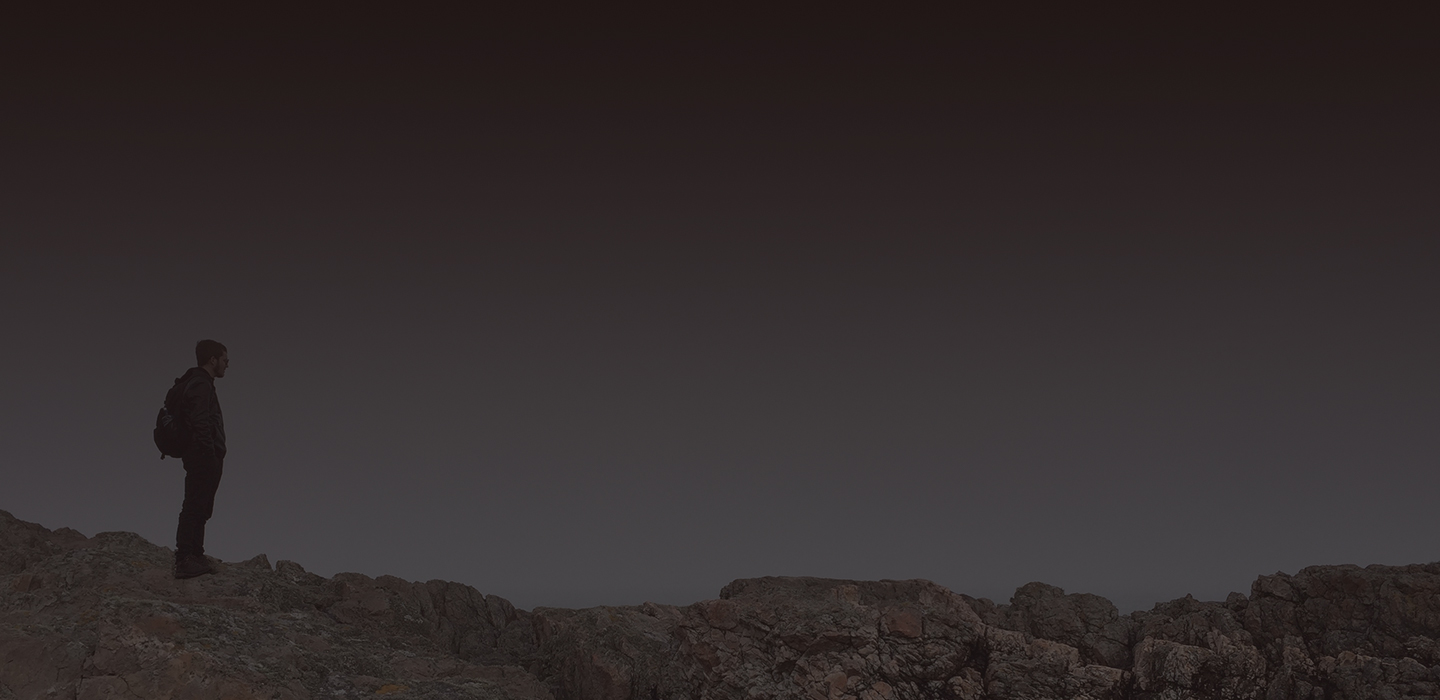
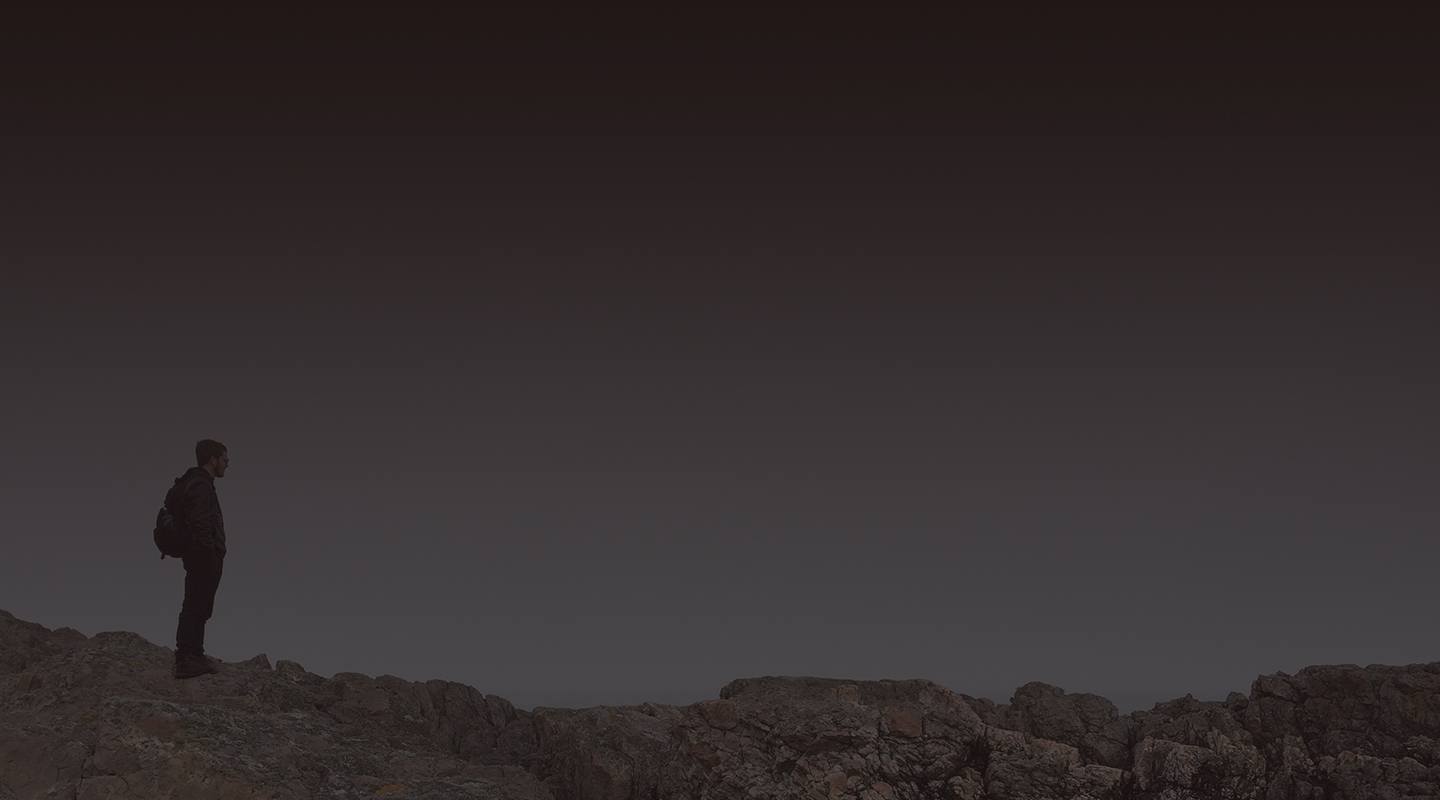
First draft ready to production

Changed region(s): [[0.0, 0.48, 1.0, 0.99], [0.9062, 0.93, 1.0, 0.96], [0.5, 0.96, 0.5312, 0.99]]

diff --git a/assets/css/main.css b/assets/css/main.css
@@ -1,1 +1,1 @@
-/*! normalize.css v3.0.3 | MIT License | github.com/necolas/normalize.css */html{font-family:sans-serif;-ms-text-size-adjust:100%;-webkit-text-size-adjust:100%}body{margin:0}article,aside,details,figcaption,figure,footer,header,hgroup,main,menu,nav,section,summary{display:block}audio,canvas,progress,video{display:inline-block;vertical-align:baseline}audio:not([controls]){display:none;height:0}[hidden],template{display:none}a{background-color:transparent}a:active,a:hover{outline:0}abbr[title]{border-bottom:1px dotted}b,strong{font-weight:bold}dfn{font-style:italic}h1{font-size:2em;margin:0.67em 0}mark{background:#ff0;color:#000}small{font-size:80%}sub,sup{font-size:75%;line-height:0;position:relative;vertical-align:baseline}sup{top:-0.5em}sub{bottom:-0.25em}img{border:0}svg:not(:root){overflow:hidden}figure{margin:1em 40px}hr{box-sizing:content-box;height:0}pre{overflow:auto}code,kbd,pre,samp{font-family:monospace, monospace;font-size:1em}button,input,optgroup,select,textarea{color:inherit;font:inherit;margin:0}button{overflow:visible}button,select{text-transform:none}button,html input[type="button"],input[type="reset"],input[type="submit"]{-webkit-appearance:button;cursor:pointer}button[disabled],html input[disabled]{cursor:default}button::-moz-focus-inner,input::-moz-focus-inner{border:0;padding:0}input{line-height:normal}input[type="checkbox"],input[type="radio"]{box-sizing:border-box;padding:0}input[type="number"]::-webkit-inner-spin-button,input[type="number"]::-webkit-outer-spin-button{height:auto}input[type="search"]{-webkit-appearance:textfield;box-sizing:content-box}input[type="search"]::-webkit-search-cancel-button,input[type="search"]::-webkit-search-decoration{-webkit-appearance:none}fieldset{border:1px solid #c0c0c0;margin:0 2px;padding:0.35em 0.625em 0.75em}legend{border:0;padding:0}textarea{overflow:auto}optgroup{font-weight:bold}table{border-collapse:collapse;border-spacing:0}td,th{padding:0}.header{text-align:center;-webkit-user-select:none;-moz-user-select:none;-ms-user-select:none;user-select:none}.nav{position:relative;margin:7.8125% 0;font:700 1.1em/1em "proxima-nova",sans-serif;text-transform:uppercase}@media (max-width: 800px){.nav{font-size:1em}}.nav a{position:relative;overflow:hidden;display:inline-block;vertical-align:middle;white-space:nowrap;padding:0.25em 0.5em;color:#fcc04d}.nav a::before{position:absolute;top:0;left:0;z-index:-1;width:100%;height:100%;background:#713f24;content:"";-webkit-transform:translateX(-110%);transform:translateX(-110%);transition:all 0.3s}.nav a:hover::before,.nav a:focus::before{-webkit-transform:translateX(0);transform:translateX(0)}.nav .logo{margin:0 4.6875%;color:#fff}.nav .logo::before{display:none}@media (max-width: 800px){.nav .logo{max-width:200px}}@media (max-width: 600px){.nav .logo{display:block;margin:0 auto}}.opening-line{padding:0 2.5em;margin:15% 10% 10%;font-size:1.2em;line-height:1.45;color:#8c7262}@media (max-width: 1000px){.opening-line{margin-left:0;margin-right:0;font-size:1.1em}}@media (max-width: 800px){.opening-line{font-size:1em}}@media (max-width: 400px){.opening-line{padding:0 1.5em;margin-top:20%}}.footer{position:relative;width:100%;min-height:700px;padding-bottom:4em;text-align:center;color:#f0e7d9;background:url(../img/bg_footer.jpg) no-repeat bottom left/100%}@media (max-width: 600px){.footer{background-position:-40px 100%;background-size:200%}}.closing-line{padding:0 2.5em;margin:10%;font-size:1.2em;line-height:1.45;color:#8c7262}@media (max-width: 1000px){.closing-line{margin:10% 0;font-size:1.1em}}@media (max-width: 800px){.closing-line{font-size:1em}}@media (max-width: 400px){.closing-line{padding:0 1.5em;margin:15% 0}}.say-hello{position:relative;max-width:800px;padding-top:10%;margin:10% auto}@media (max-width: 400px){.say-hello{padding:15% 1em 0;margin:15% auto}}.say-hello h4{margin:0}.say-hello a{opacity:.5;transition:opacity 0.3s}.say-hello a:hover{opacity:1}.say-hello::before{position:absolute;top:0;left:25%;width:50%;border-top:2px dashed rgba(255,255,255,0.2);content:""}.say-hello .social-icons a{display:inline-block;max-width:40px;margin:0.5em 0.25em;opacity:1}.say-hello .social-icons a:hover{opacity:.5}.by{display:inline-block;max-width:40px}body{font:1.25em/1.5 "ff-tisa-web-pro",serif;color:#734020;background:#201716;-webkit-font-smoothing:antialiased;-moz-osx-font-smoothing:grayscale}@media (max-width: 800px){body{font-size:1.125em}}::-moz-selection{text-shadow:none;color:#734020;background:#fcc04d}::selection{text-shadow:none;color:#734020;background:#fcc04d}blockquote{font-style:italic}blockquote footer{font-size:.8em;margin-top:.5em;opacity:.5}h1,h2,h3,h4{margin-bottom:0;font-family:"proxima-nova",sans-serif;line-height:1.1}h1{font-size:2.8em}@media (max-width: 800px){h1{font-size:2.4em}}@media (max-width: 600px){h1{font-size:2em}}@media (max-width: 400px){h1{font-size:1.7em}}h2{font-size:2.1em}@media (max-width: 600px){h2{font-size:1.7em}}h3{font-size:1.7em}@media (max-width: 600px){h3{font-size:1.3em}}h4{font-size:1.2em;text-transform:uppercase;color:#fcc04d}.post{position:relative;z-index:2}.post>h1,.post>h2,.post>h3,.post>h4,.post>p,.post>header,.post>footer{margin-left:14%;margin-right:14%}@media (max-width: 1000px){.post>h1,.post>h2,.post>h3,.post>h4,.post>p,.post>header,.post>footer{margin-left:8%;margin-right:8%}}@media (max-width: 800px){.post>h1,.post>h2,.post>h3,.post>h4,.post>p,.post>header,.post>footer{margin-left:0;margin-right:0}}.post__title{position:relative}.post__title a{display:block;padding-bottom:.75em;margin-bottom:.75em}.post__title a::before{position:absolute;left:0;bottom:0;width:35%;border-bottom:3px dashed #fcc04d;content:"";transition:all 0.3s}.post__title a:hover::before{width:70%;border-bottom:3px dashed #fcc04d}.post__meta{clear:both;padding:1.5em 2em;margin-top:3em;margin-bottom:2em;font-size:.7em;font-family:"proxima-nova",sans-serif;text-transform:uppercase;background:rgba(255,255,255,0.25);box-shadow:0 1px 3px rgba(31,22,21,0.1)}@media (max-width: 600px){.post__meta{padding:1.25em 1.5em}}.post__meta a{position:relative;display:inline-block;vertical-align:top;overflow:hidden;transition:all 0.3s}.post__meta a::before{position:absolute;top:0;left:0;z-index:-1;width:100%;height:100%;background:#fcc04d;content:"";-webkit-transform:translateX(-110%);transform:translateX(-110%);transition:all 0.3s}.post__meta a:hover::before,.post__meta a:focus::before{-webkit-transform:translateX(0);transform:translateX(0)}.post__meta .spacer{display:inline-block;vertical-align:top;padding:0 1em}@media (max-width: 600px){.post__meta .spacer{display:none}}.post__meta__tags{display:inline-block;vertical-align:top;padding:0;margin:0;list-style:none;white-space:nowrap}@media (max-width: 600px){.post__meta__tags{display:block;padding:0.5em 1.5em;margin:0.5em -1.5em;background:rgba(252,192,77,0.2)}}.post__meta__tags li{display:inline-block;vertical-align:top;margin-right:.3em}.post__meta__tags li:last-child{margin-right:0}html{box-sizing:border-box}*,*::before,*::after{box-sizing:inherit}audio,canvas,iframe,img,svg,video{vertical-align:middle}img{max-width:100%;height:auto}input[type="text"],input[type="button"],input[type="submit"],textarea{-webkit-appearance:none;border-radius:0}textarea{resize:vertical}figure{margin:0}a{text-decoration:none;color:inherit}.clearfix::before,.clearfix::after{content:"";display:table}.clearfix::after{clear:both}.ir{font:0/0 a;text-shadow:none;color:transparent}.container{position:relative;width:90%;max-width:1280px;margin:0 auto;-webkit-backface-visibility:hidden;backface-visibility:hidden}@media (max-width: 400px){.container{width:96%}}.main{position:relative;min-height:600px;padding:4em 3em;background:url(../img/bg_main-dirty.png) no-repeat top right,#f0e7d9 url(../img/bg_main.jpg) top center;border-radius:3px;box-shadow:inset 0 0 0 1px rgba(255,255,255,0.25),inset 0 0 25px rgba(31,22,21,0.25),4px 4px 20px rgba(31,22,21,0.5),4px 4px 0 #f0e7d9,4px 4px 20px rgba(31,22,21,0.5),8px 8px 0 #f0e7d9,8px 8px 20px rgba(31,22,21,0.5)}@media (max-width: 400px){.main{padding:1em 1.5em;box-shadow:inset 0 0 0 1px rgba(255,255,255,0.25),inset 0 0 25px rgba(31,22,21,0.25),0 4px 20px rgba(31,22,21,0.5),0 8px 0 -4px #f0e7d9,0 8px 20px -4px rgba(31,22,21,0.5),0 14px 0 -6px #f0e7d9,0 14px 20px -6px rgba(31,22,21,0.5)}}.main::before{position:absolute;top:1.75em;right:1.75em;bottom:1.75em;left:1.75em;border:5px solid rgba(113,63,36,0.13);content:""}@media (max-width: 800px){.main::before{top:1em;right:1em;bottom:1em;left:1em}}@media (max-width: 400px){.main::before{display:none}}.main::after{position:absolute;top:0;left:0;width:50%;height:100%;background:rgba(0,0,0,0.035);box-shadow:0 0 30px rgba(0,0,0,0.07);content:""}.bg-layer{position:fixed;top:0;left:0;z-index:-1;width:100%;height:100%;background-repeat:no-repeat;background-position:top center;background-size:100% auto}@media (max-width: 1000px){.bg-layer{background-size:1000px}}@media (max-width: 800px){.bg-layer{background-size:800px}}@media (max-width: 600px){.bg-layer{background-size:900px}}.bg-layer-0{background-image:url(../img/bg_layer_0.jpg)}.bg-layer-1{background-image:url(../img/bg_layer_1.png)}.bg-layer-2{background-image:url(../img/bg_layer_2.png)}.bg-layer-3{background-image:url(../img/bg_layer_3.png)}
+/*! normalize.css v3.0.3 | MIT License | github.com/necolas/normalize.css */html{font-family:sans-serif;-ms-text-size-adjust:100%;-webkit-text-size-adjust:100%}body{margin:0}article,aside,details,figcaption,figure,footer,header,hgroup,main,menu,nav,section,summary{display:block}audio,canvas,progress,video{display:inline-block;vertical-align:baseline}audio:not([controls]){display:none;height:0}[hidden],template{display:none}a{background-color:transparent}a:active,a:hover{outline:0}abbr[title]{border-bottom:1px dotted}b,strong{font-weight:bold}dfn{font-style:italic}h1{font-size:2em;margin:0.67em 0}mark{background:#ff0;color:#000}small{font-size:80%}sub,sup{font-size:75%;line-height:0;position:relative;vertical-align:baseline}sup{top:-0.5em}sub{bottom:-0.25em}img{border:0}svg:not(:root){overflow:hidden}figure{margin:1em 40px}hr{box-sizing:content-box;height:0}pre{overflow:auto}code,kbd,pre,samp{font-family:monospace, monospace;font-size:1em}button,input,optgroup,select,textarea{color:inherit;font:inherit;margin:0}button{overflow:visible}button,select{text-transform:none}button,html input[type="button"],input[type="reset"],input[type="submit"]{-webkit-appearance:button;cursor:pointer}button[disabled],html input[disabled]{cursor:default}button::-moz-focus-inner,input::-moz-focus-inner{border:0;padding:0}input{line-height:normal}input[type="checkbox"],input[type="radio"]{box-sizing:border-box;padding:0}input[type="number"]::-webkit-inner-spin-button,input[type="number"]::-webkit-outer-spin-button{height:auto}input[type="search"]{-webkit-appearance:textfield;box-sizing:content-box}input[type="search"]::-webkit-search-cancel-button,input[type="search"]::-webkit-search-decoration{-webkit-appearance:none}fieldset{border:1px solid #c0c0c0;margin:0 2px;padding:0.35em 0.625em 0.75em}legend{border:0;padding:0}textarea{overflow:auto}optgroup{font-weight:bold}table{border-collapse:collapse;border-spacing:0}td,th{padding:0}.header{text-align:center;-webkit-user-select:none;-moz-user-select:none;-ms-user-select:none;user-select:none}.nav{position:relative;margin:7.8125% 0;font:700 1.1em/1em "proxima-nova",sans-serif;text-transform:uppercase}@media (max-width: 800px){.nav{font-size:1em}}.nav a{position:relative;overflow:hidden;display:inline-block;vertical-align:middle;white-space:nowrap;padding:0.25em 0.5em;color:#fcc04d}.nav a::before{position:absolute;top:0;left:0;z-index:-1;width:100%;height:100%;background:#713f24;content:"";-webkit-transform:translateX(-110%);transform:translateX(-110%);transition:all 0.3s}.nav a:hover::before,.nav a:focus::before{-webkit-transform:translateX(0);transform:translateX(0)}.nav .logo{margin:0 4.6875%;color:#fff}.nav .logo::before{display:none}@media (max-width: 800px){.nav .logo{max-width:200px}}@media (max-width: 600px){.nav .logo{display:block;margin:0 auto}}.opening-line{padding:0 2.5em;margin:15% 10% 10%;font-size:1.2em;line-height:1.45;color:#8c7262}@media (max-width: 1000px){.opening-line{margin-left:0;margin-right:0;font-size:1.1em}}@media (max-width: 800px){.opening-line{font-size:1em}}@media (max-width: 400px){.opening-line{padding:0 1.5em;margin-top:20%}}.footer{position:relative;width:100%;min-height:800px;padding-bottom:2em;text-align:center;color:#f0e7d9;background:url(../img/bg_footer.jpg) no-repeat bottom left/100%}@media (max-width: 600px){.footer{background-position:-40px 100%;background-size:200%}}.closing-line{padding:0 2.5em;margin:10% 10%;font-size:1.2em;line-height:1.45;color:#8c7262}@media (max-width: 1000px){.closing-line{margin:10% 0;font-size:1.1em}}@media (max-width: 800px){.closing-line{font-size:1em}}@media (max-width: 400px){.closing-line{padding:0 1.5em;margin:15% 0}}.say-hello{position:relative;max-width:800px;padding-top:10%;margin:10% auto}@media (max-width: 400px){.say-hello{padding:15% 1em 0;margin:15% auto}}.say-hello h4{margin:0}.say-hello a{opacity:.5;transition:opacity 0.3s}.say-hello a:hover{opacity:1}.say-hello::before{position:absolute;top:0;left:25%;width:50%;border-top:2px dashed rgba(255,255,255,0.2);content:""}.say-hello .social-icons a{display:inline-block;max-width:40px;margin:0.5em 0.25em;opacity:1}.say-hello .social-icons a:hover{opacity:.5}.by{display:inline-block;max-width:40px}body{font:1.25em/1.5 "ff-tisa-web-pro",serif;color:#734020;background:#201716;-webkit-font-smoothing:antialiased;-moz-osx-font-smoothing:grayscale}@media (max-width: 800px){body{font-size:1.125em}}::-moz-selection{text-shadow:none;color:#734020;background:#fcc04d}::selection{text-shadow:none;color:#734020;background:#fcc04d}blockquote{font-style:italic}blockquote footer{font-size:.8em;margin-top:.5em;opacity:.5}h1,h2,h3,h4{margin-bottom:0;font-family:"proxima-nova",sans-serif;line-height:1.1}h1{font-size:2.8em}@media (max-width: 800px){h1{font-size:2.4em}}@media (max-width: 600px){h1{font-size:2em}}@media (max-width: 400px){h1{font-size:1.7em}}h2{font-size:2.1em}@media (max-width: 600px){h2{font-size:1.7em}}h3{font-size:1.7em}@media (max-width: 600px){h3{font-size:1.3em}}h4{font-size:1.2em;text-transform:uppercase;color:#fcc04d}.post{position:relative;z-index:2}.post>h1,.post>h2,.post>h3,.post>h4,.post>p,.post>header,.post>footer{margin-left:14%;margin-right:14%}@media (max-width: 1000px){.post>h1,.post>h2,.post>h3,.post>h4,.post>p,.post>header,.post>footer{margin-left:8%;margin-right:8%}}@media (max-width: 800px){.post>h1,.post>h2,.post>h3,.post>h4,.post>p,.post>header,.post>footer{margin-left:0;margin-right:0}}.post__title{position:relative}.post__title a{display:block;padding-bottom:.75em;margin-bottom:.75em}.post__title a::before{position:absolute;left:0;bottom:0;width:35%;border-bottom:3px dashed #fcc04d;content:"";transition:all 0.3s}.post__title a:hover::before{width:70%;border-bottom:3px dashed #fcc04d}.post__meta{clear:both;padding:1.5em 2em;margin-top:3em;margin-bottom:2em;font-size:.7em;font-family:"proxima-nova",sans-serif;text-transform:uppercase;background:rgba(255,255,255,0.25);box-shadow:0 1px 3px rgba(31,22,21,0.1)}@media (max-width: 600px){.post__meta{padding:1.25em 1.5em}}.post__meta a{position:relative;display:inline-block;vertical-align:top;overflow:hidden;transition:all 0.3s}.post__meta a::before{position:absolute;top:0;left:0;z-index:-1;width:100%;height:100%;background:#fcc04d;content:"";-webkit-transform:translateX(-110%);transform:translateX(-110%);transition:all 0.3s}.post__meta a:hover::before,.post__meta a:focus::before{-webkit-transform:translateX(0);transform:translateX(0)}.post__meta .spacer{display:inline-block;vertical-align:top;padding:0 1em}@media (max-width: 600px){.post__meta .spacer{display:none}}.post__meta__tags{display:inline-block;vertical-align:top;padding:0;margin:0;list-style:none;white-space:nowrap}@media (max-width: 600px){.post__meta__tags{display:block;padding:0.5em 1.5em;margin:0.5em -1.5em;background:rgba(252,192,77,0.2)}}.post__meta__tags li{display:inline-block;vertical-align:top;margin-right:.3em}.post__meta__tags li:last-child{margin-right:0}html{box-sizing:border-box}*,*::before,*::after{box-sizing:inherit}audio,canvas,iframe,img,svg,video{vertical-align:middle}img{max-width:100%;height:auto}input[type="text"],input[type="button"],input[type="submit"],textarea{-webkit-appearance:none;border-radius:0}textarea{resize:vertical}figure{margin:0}a{text-decoration:none;color:inherit}.clearfix::before,.clearfix::after{content:"";display:table}.clearfix::after{clear:both}.ir{font:0/0 a;text-shadow:none;color:transparent}.container{position:relative;width:90%;max-width:1280px;margin:0 auto;-webkit-backface-visibility:hidden;backface-visibility:hidden}@media (max-width: 400px){.container{width:96%}}.main{position:relative;min-height:600px;padding:4em 3em;background:url(../img/bg_main-dirty.png) no-repeat top right,#f0e7d9 url(../img/bg_main.jpg) top center;border-radius:3px;box-shadow:inset 0 0 0 1px rgba(255,255,255,0.25),inset 0 0 25px rgba(31,22,21,0.25),4px 4px 20px rgba(31,22,21,0.5),4px 4px 0 #f0e7d9,4px 4px 20px rgba(31,22,21,0.5),8px 8px 0 #f0e7d9,8px 8px 20px rgba(31,22,21,0.5)}@media (max-width: 400px){.main{padding:1em 1.5em;box-shadow:inset 0 0 0 1px rgba(255,255,255,0.25),inset 0 0 25px rgba(31,22,21,0.25),0 4px 20px rgba(31,22,21,0.5),0 8px 0 -4px #f0e7d9,0 8px 20px -4px rgba(31,22,21,0.5),0 14px 0 -6px #f0e7d9,0 14px 20px -6px rgba(31,22,21,0.5)}}.main::before{position:absolute;top:1.75em;right:1.75em;bottom:1.75em;left:1.75em;border:5px solid rgba(113,63,36,0.13);content:""}@media (max-width: 800px){.main::before{top:1em;right:1em;bottom:1em;left:1em}}@media (max-width: 400px){.main::before{display:none}}.main::after{position:absolute;top:0;left:0;width:50%;height:100%;background:rgba(0,0,0,0.035);box-shadow:0 0 30px rgba(0,0,0,0.07);content:""}.bg-layer{position:fixed;top:0;left:0;z-index:-1;width:100%;height:100%;background-repeat:no-repeat;background-position:top center;background-size:100% auto}@media (max-width: 1000px){.bg-layer{background-size:1000px}}@media (max-width: 800px){.bg-layer{background-size:800px}}@media (max-width: 600px){.bg-layer{background-size:900px}}.bg-layer-0{background-image:url(../img/bg_layer_0.jpg)}.bg-layer-1{background-image:url(../img/bg_layer_1.png)}.bg-layer-2{background-image:url(../img/bg_layer_2.png)}.bg-layer-3{background-image:url(../img/bg_layer_3.png)}

diff --git a/assets/js/main.min.js b/assets/js/main.min.js
@@ -1,1 +1,1 @@
-function parallaxMountain(){for(var a=Math.max(window.pageYOffset,0),b=document.querySelectorAll(".bg-layer"),c=document.querySelector(".opening-line"),d=document.querySelector(".nav"),e=[-(.3*a),-(.45*a),-(.5*a),-(.65*a)],f=0;f<b.length;f++)b[f].style.webkitTransform="translate3d(0, "+e[f]+"px, 0)",b[f].style.MozTransform="translate3d(0, "+e[f]+"px, 0)",b[f].style.msTransform="translateY("+e[f]+"px)",b[f].style.OTransform="translate3d(0, "+e[f]+"px, 0)",b[f].style.transform="translate3d(0, "+e[f]+"px, 0)";c.style.opacity=1-a/90,d.style.webkitTransform="translate3d(0, "+a/1.5+"px, 0)",d.style.MozTransform="translate3d(0, "+a/1.5+"px, 0)",d.style.msTransform="translateY("+a/1.5+"px)",d.style.OTransform="translate3d(0, "+a/1.5+"px, 0)",d.style.transform="translate3d(0, "+a/1.5+"px, 0)"}document.addEventListener("scroll",parallaxMountain,!1),smoothScroll.init({speed:1e3,easing:"easeInQuart",updateURL:!0});
+function parallaxMountain(){for(var a=Math.max(window.pageYOffset,0),b=document.querySelectorAll(".bg-layer"),c=document.querySelector(".opening-line"),d=(document.querySelector(".nav"),[-(.4*a),-(.55*a),-(.6*a),-(.75*a)]),e=0;e<b.length;e++)b[e].style.webkitTransform="translate3d(0, "+d[e]+"px, 0)",b[e].style.MozTransform="translate3d(0, "+d[e]+"px, 0)",b[e].style.msTransform="translateY("+d[e]+"px)",b[e].style.OTransform="translate3d(0, "+d[e]+"px, 0)",b[e].style.transform="translate3d(0, "+d[e]+"px, 0)";c.style.opacity=1-a/90}document.addEventListener("scroll",parallaxMountain,!1),smoothScroll.init({speed:1e3,easing:"easeInQuart",updateURL:!0});

diff --git a/assets/js/main.js b/assets/js/main.js
@@ -9,10 +9,10 @@ function parallaxMountain() {
 	// Multiply the page offset with different values
 	// for different scrolling speeds between layers
 	var offset = [
-		-(scrollVal * 0.3),
-		-(scrollVal * 0.45),
-		-(scrollVal * 0.5),
-		-(scrollVal * 0.65)
+		-(scrollVal * 0.4),
+		-(scrollVal * 0.55),
+		-(scrollVal * 0.6),
+		-(scrollVal * 0.75)
 	];
 
 	// Parallax the shit out of those mountains!
@@ -28,11 +28,12 @@ function parallaxMountain() {
 	openingLine.style.opacity = 1-(scrollVal/90);
 
 	// Fade out / scroll down navigation
-	nav.style.webkitTransform = 'translate3d(0, ' + (scrollVal/1.5) + 'px, 0)';
-	nav.style.MozTransform = 'translate3d(0, ' + (scrollVal/1.5) + 'px, 0)';
-	nav.style.msTransform = 'translateY(' + (scrollVal/1.5) + 'px)';
-	nav.style.OTransform = 'translate3d(0, ' + (scrollVal/1.5) + 'px, 0)';
-	nav.style.transform = 'translate3d(0, ' + (scrollVal/1.5) + 'px, 0)';
+	// nav.style.webkitTransform = 'translate3d(0, ' + (scrollVal/1.5) + 'px, 0)';
+	// nav.style.MozTransform = 'translate3d(0, ' + (scrollVal/1.5) + 'px, 0)';
+	// nav.style.msTransform = 'translateY(' + (scrollVal/1.5) + 'px)';
+	// nav.style.OTransform = 'translate3d(0, ' + (scrollVal/1.5) + 'px, 0)';
+	// nav.style.transform = 'translate3d(0, ' + (scrollVal/1.5) + 'px, 0)';
+	// nav.style.opacity = 1-(scrollVal/200);
 
 }
 

diff --git a/assets/scss/_footer.scss b/assets/scss/_footer.scss
@@ -5,8 +5,8 @@
 .footer {
 	position: relative;
 	width: 100%;
-	min-height: 700px;
-	padding-bottom: 4em;
+	min-height: 800px;
+	padding-bottom: 2em;
 	text-align: center;
 	color: #f0e7d9;
 	background: url(../img/bg_footer.jpg) no-repeat bottom left / 100%;
@@ -21,7 +21,7 @@
 
 .closing-line {
 	padding: 0 2.5em;
-	margin: 10%;
+	margin: 10% 10%;
 	font-size: 1.2em;
 	line-height: 1.45;
 	color: #8c7262;
